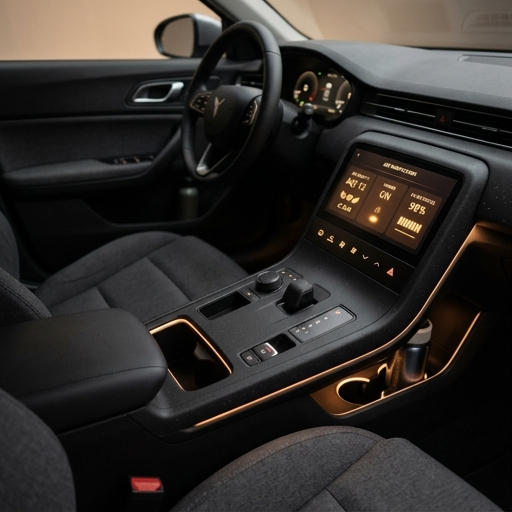
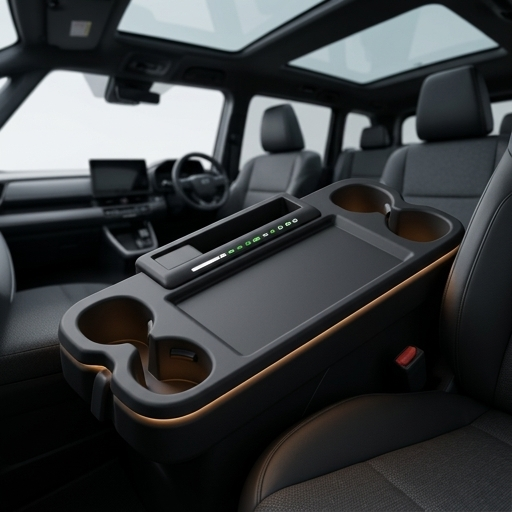
Use source news images for Gemini idea renders

diff --git a/generate_idea_images_gemini.py b/generate_idea_images_gemini.py
@@ -1,14 +1,17 @@
 # -*- coding: utf-8 -*-
 import argparse
 import base64
+import io
 import os
 import re
 from pathlib import Path
 
 import requests
+from PIL import Image, ImageOps
 
 ROOT = Path(__file__).resolve().parent
 INSIGHTS_PATH = ROOT / "insights_data.js"
+NEWS_PATH = ROOT / "news_data.js"
 IMAGES_DIR = ROOT / "images"
 IMAGES_DIR.mkdir(exist_ok=True)
 
@@ -16,6 +19,45 @@ DEFAULT_MODEL = "gemini-3.1-flash-image-preview"
 DEFAULT_ASPECT_RATIO = "1:1"
 DEFAULT_IMAGE_SIZE = "512px"  # 0.5K tier
 DEFAULT_API_VERSION = "v1beta"
+DEFAULT_PROXY = "http://202.15.64.202:8080"
+
+
+def _windows_proxy_server() -> str:
+    if os.name != "nt":
+        return ""
+    try:
+        import winreg
+
+        path = r"Software\Microsoft\Windows\CurrentVersion\Internet Settings"
+        with winreg.OpenKey(winreg.HKEY_CURRENT_USER, path) as key:
+            enabled = int(winreg.QueryValueEx(key, "ProxyEnable")[0])
+            value = str(winreg.QueryValueEx(key, "ProxyServer")[0]).strip()
+        if not enabled or not value:
+            return ""
+        if ";" in value or "=" in value:
+            entries = {}
+            for part in value.split(";"):
+                if "=" in part:
+                    name, server = part.split("=", 1)
+                    entries[name.strip().lower()] = server.strip()
+            value = entries.get("https") or entries.get("http") or ""
+        if value and "://" not in value:
+            value = f"http://{value}"
+        return value
+    except Exception:
+        return ""
+
+
+def configure_external_proxy() -> str:
+    proxy = (
+        os.environ.get("HTTPS_PROXY")
+        or os.environ.get("HTTP_PROXY")
+        or _windows_proxy_server()
+        or DEFAULT_PROXY
+    )
+    for name in ("HTTP_PROXY", "HTTPS_PROXY", "http_proxy", "https_proxy"):
+        os.environ.setdefault(name, proxy)
+    return proxy
 
 
 def extract_latest_block(text: str) -> str:
@@ -52,7 +94,7 @@ def extract_latest_block(text: str) -> str:
 def extract_ideas(block: str):
     ideas = []
     pattern = re.compile(
-        r"\{\s*id:\s*(\d+)\s*,\s*img:\s*\"([^\"]*)\"\s*,\s*title:\s*\"([^\"]*)\"\s*,\s*desc:\s*\"([^\"]*)\"(?:\s*,\s*imagePrompt:\s*\"([^\"]*)\")?(?:\s*,\s*sourceNewsIds:\s*\[[^\]]*\])?\s*\}",
+        r"\{\s*id:\s*(\d+)\s*,\s*img:\s*\"([^\"]*)\"\s*,\s*title:\s*\"([^\"]*)\"\s*,\s*desc:\s*\"([^\"]*)\"(?:\s*,\s*imagePrompt:\s*\"([^\"]*)\")?(?:\s*,\s*sourceNewsIds:\s*\[([^\]]*)\])?\s*\}",
         re.DOTALL,
     )
     for m in pattern.finditer(block):
@@ -63,6 +105,7 @@ def extract_ideas(block: str):
                 "title": m.group(3),
                 "desc": m.group(4),
                 "imagePrompt": m.group(5) or "",
+                "sourceNewsIds": re.findall(r"[a-z]{2,5}\d+", m.group(6) or "", flags=re.IGNORECASE),
             }
         )
     return ideas
@@ -73,25 +116,114 @@ def extract_date(block: str) -> str:
     return m.group(1) if m else ""
 
 
-def build_prompt(title: str, desc: str, image_prompt: str = "", api_key: str = "", model: str = "", idea_id: int = 0) -> str:
-    """画像生成プロンプトを返す。
-    imagePrompt が設定済みならそれを使用。
-    それ以外は日本語タイトル+説明をそのまま渡す（Geminiは日本語直接対応）。
-    """
-    if image_prompt:
-        return image_prompt
+def extract_news_reference_map(text: str) -> dict[str, dict]:
+    """Extract the fields needed to download an idea's source-news images."""
+    result = {}
+    object_pattern = re.compile(
+        r'\{\s*id:\s*"(?P<id>[a-z]{2,5}\d+)"(?P<body>.*?)\n\s*\}',
+        re.DOTALL | re.IGNORECASE,
+    )
+    for match in object_pattern.finditer(text):
+        body = match.group("body")
+        item = {"id": match.group("id").lower()}
+        for field in ("title", "url", "img"):
+            value = re.search(rf'{field}:\s*"((?:\\.|[^"\\])*)"', body, flags=re.DOTALL)
+            item[field] = (value.group(1) if value else "").replace("\\/", "/").replace('\\"', '"')
+        result[item["id"]] = item
+    return result
+
+
+def _prepare_inline_image(raw: bytes) -> tuple[str, bytes]:
+    """Normalize a downloaded image so Gemini receives a compact supported file."""
+    with Image.open(io.BytesIO(raw)) as source:
+        image = ImageOps.exif_transpose(source)
+        image.thumbnail((1280, 1280), Image.Resampling.LANCZOS)
+        has_alpha = image.mode in ("RGBA", "LA") or "transparency" in image.info
+        output = io.BytesIO()
+        if has_alpha:
+            image.convert("RGBA").save(output, format="PNG", optimize=True)
+            return "image/png", output.getvalue()
+        image.convert("RGB").save(output, format="JPEG", quality=86, optimize=True)
+        return "image/jpeg", output.getvalue()
+
+
+def download_reference_image(item: dict, timeout: int = 60) -> tuple[str, bytes]:
+    image_url = (item.get("img") or "").strip()
+    if not image_url:
+        raise ValueError("news item has no image URL")
+    headers = {
+        "User-Agent": (
+            "Mozilla/5.0 (Windows NT 10.0; Win64; x64) "
+            "AppleWebKit/537.36 (KHTML, like Gecko) Chrome/126.0 Safari/537.36"
+        ),
+        "Accept": "image/avif,image/webp,image/apng,image/svg+xml,image/*,*/*;q=0.8",
+    }
+    if item.get("url"):
+        headers["Referer"] = item["url"]
+    response = requests.get(image_url, headers=headers, timeout=timeout)
+    response.raise_for_status()
+    if not response.content:
+        raise ValueError("empty image response")
+    return _prepare_inline_image(response.content)
+
+
+def build_reference_parts(idea: dict, news_map: dict[str, dict], max_images: int = 2) -> list[dict]:
+    parts = []
+    seen_urls = set()
+    for news_id in idea.get("sourceNewsIds", []):
+        if len(parts) // 2 >= max_images:
+            break
+        item = news_map.get(str(news_id).lower())
+        if not item:
+            print(f"[REF_SKIP] {idea['id']}: {news_id} not found in news_data.js")
+            continue
+        image_url = (item.get("img") or "").strip()
+        if not image_url or image_url in seen_urls:
+            continue
+        try:
+            mime_type, image_bytes = download_reference_image(item)
+        except Exception as exc:
+            print(f"[REF_FAIL] {idea['id']}: {news_id}: {exc}")
+            continue
+        seen_urls.add(image_url)
+        parts.append({"text": f"Reference news image ({news_id})."})
+        parts.append(
+            {
+                "inline_data": {
+                    "mime_type": mime_type,
+                    "data": base64.b64encode(image_bytes).decode("ascii"),
+                }
+            }
+        )
+        print(f"[REF] {idea['id']}: {news_id} ({len(image_bytes) // 1024} KB)")
+    return parts
+
+
+def build_prompt(title: str, desc: str, image_prompt: str = "", has_references: bool = False) -> str:
+    """Build an image brief and explain how any attached news photos should be used."""
     import re as _re
     clean_title = _re.sub(r'\*+', '', title).strip()
     clean_desc = _re.sub(r'\*+', '', desc).strip()
     clean_desc = _re.sub(r'\[[a-z]{2,5}\d+\]', '', clean_desc)
     clean_desc = _re.sub(r'\s+', ' ', clean_desc)[:700]
+    concept_visual = image_prompt.strip() if image_prompt else clean_desc
+    reference_instruction = (
+        "The following image or images are source-news references. Use only their relevant physical design, "
+        "material, packaging, and cabin-context cues. Do not copy their composition, branding, logos, text, "
+        "people, or the complete vehicle. Transform the cues into the distinct concept described below."
+        if has_references
+        else ""
+    )
     return (
         "Create one square photorealistic concept render of an automotive interior product. "
         "Do not include any text, labels, logos, captions, UI words, watermarks, or people. "
-        "Show the physical object clearly in a modern vehicle cabin with premium materials, "
-        "realistic lighting, detailed surfaces, and production-ready industrial design.\n\n"
+        "Do not design a seat, seat cushion, seat frame, seat cover, headrest, or seating product. "
+        "Show the physical product clearly in a modern passenger-vehicle cabin with premium materials, "
+        "realistic lighting, detailed surfaces, and production-feasible industrial design.\n"
+        f"{reference_instruction}\n\n"
         f"Concept name: {clean_title}\n"
-        f"Design brief: {clean_desc}"
+        f"Design brief: {clean_desc}\n"
+        f"Requested visual direction: {concept_visual}"
     )
 
 
@@ -124,7 +256,10 @@ def main():
     ap.add_argument("--aspect-ratio", default=os.environ.get("GEMINI_IMAGE_ASPECT_RATIO", DEFAULT_ASPECT_RATIO))
     ap.add_argument("--image-size", default=os.environ.get("GEMINI_IMAGE_SIZE", DEFAULT_IMAGE_SIZE))
     ap.add_argument("--api-version", default=os.environ.get("GEMINI_API_VERSION", DEFAULT_API_VERSION))
+    ap.add_argument("--no-reference-images", action="store_true", help="Do not attach source-news images")
+    ap.add_argument("--max-reference-images", type=int, default=2)
     args = ap.parse_args()
+    configure_external_proxy()
 
     api_key = os.environ.get("GEMINI_API_KEY")
     if not api_key:
@@ -143,6 +278,10 @@ def main():
     if not ideas:
         print("No ideas found in latest block.")
         return
+
+    news_map = {}
+    if not args.no_reference_images:
+        news_map = extract_news_reference_map(NEWS_PATH.read_text(encoding="utf-8"))
 
     updated = text
     count = 0
@@ -174,9 +313,20 @@ def main():
             updated = update_image_path(updated, idea["id"], f"images/{dest_path.name}")
             continue
 
-        prompt_text = build_prompt(idea["title"], idea["desc"], idea.get("imagePrompt", ""))
+        reference_parts = build_reference_parts(
+            idea,
+            news_map,
+            max_images=max(0, args.max_reference_images),
+        ) if news_map else []
+        prompt_text = build_prompt(
+            idea["title"],
+            idea["desc"],
+            idea.get("imagePrompt", ""),
+            has_references=bool(reference_parts),
+        )
+        request_parts = [{"text": prompt_text}, *reference_parts]
         payload = {
-            "contents": [{"parts": [{"text": prompt_text}]}],
+            "contents": [{"parts": request_parts}],
             "generationConfig": {
                 "responseModalities": ["IMAGE"],
                 "imageConfig": {

diff --git a/auto_update_daily_news.py b/auto_update_daily_news.py
@@ -485,6 +485,27 @@ def _clean_idea_field(text: str, max_len: int = 400) -> str:
     return text[:max_len]
 
 
+def _is_out_of_scope_seat_product(text: str) -> bool:
+    """Return True when an idea is primarily a seat product, which is out of scope."""
+    normalized = re.sub(r"\s+", " ", str(text or "")).lower()
+    # Seat belts are safety products rather than seating products, so do not
+    # reject an otherwise valid idea only because that term appears.
+    normalized = normalized.replace("シートベルト", "").replace("seat belt", "").replace("seatbelt", "")
+    if any(
+        term in normalized
+        for term in [
+            "シート",
+            "座席",
+            "座面",
+            "背もたれ",
+            "ヘッドレスト",
+            "ランバーサポート",
+        ]
+    ):
+        return True
+    return bool(re.search(r"\b(?:seat|seats|seating|headrest|headrests|backrest|backrests)\b", normalized))
+
+
 def dedupe_ideas(raw_ideas: list, history_ideas: list, limit: int = 2):
     picked = []
     picked_texts = []
@@ -506,6 +527,8 @@ def dedupe_ideas(raw_ideas: list, history_ideas: list, limit: int = 2):
         if not title or not desc:
             continue
         cand = f"{title} {desc}"
+        if _is_out_of_scope_seat_product(cand):
+            continue
         duplicate = False
         for ht in history_texts:
             if _similarity(cand, ht) >= 0.58:
@@ -992,7 +1015,7 @@ def select_idea_anchor_groups(items: list, need_count: int = 2) -> list[list[dic
         interior_score = float(interior_score) if interior_score is not None else 0.0
         blob = f"{it.get('title', '')} {it.get('desc', '')} {tags}".lower()
         keyword_bonus = 0
-        for kw in ["シート", "ディスプレイ", "HMI", "コックピット", "コンソール", "ステア", "イルミ", "安全", "新素材", "音響"]:
+        for kw in ["ディスプレイ", "HMI", "HUD", "コックピット", "コンソール", "ステア", "イルミ", "安全", "新素材", "音響", "ドアトリム", "インパネ"]:
             if kw.lower() in blob:
                 keyword_bonus += 5
         image_bonus = 8 if it.get("imageInterior") is True else 0
@@ -1008,6 +1031,7 @@ def select_idea_anchor_groups(items: list, need_count: int = 2) -> list[list[dic
         and it.get("title")
         and it.get("desc")
         and not _non_passenger_vehicle_kind(it)
+        and not _is_out_of_scope_seat_product(f"{it.get('title', '')} {it.get('desc', '')}")
         and (it.get("imageInterior") is True or (it.get("interiorScore") or 0) >= 65)
     ]
     if not candidates:
@@ -1015,6 +1039,7 @@ def select_idea_anchor_groups(items: list, need_count: int = 2) -> list[list[dic
             it for it in items
             if it.get("newsId") and it.get("title") and it.get("desc")
             and not _non_passenger_vehicle_kind(it)
+            and not _is_out_of_scope_seat_product(f"{it.get('title', '')} {it.get('desc', '')}")
         ]
     candidates.sort(key=_score, reverse=True)
     if not candidates:
@@ -1056,7 +1081,11 @@ def make_country_prompt(
     angles = load_idea_angles()
     angle = random.choice(angles) if angles else ""
     angle_instruction = f"    - 【今回の発想切り口】1件目は「{angle}」の視点で発想すること（ただしニュース内容と関連させること）\n" if angle else ""
-    tg_products = load_tg_products()
+    tg_products = [
+        product
+        for product in load_tg_products()
+        if not _is_out_of_scope_seat_product(f"{product.get('name', '')} {product.get('desc', '')}")
+    ]
     tg_product = random.choice(tg_products) if tg_products else None
     tg_constraint = ""
     if tg_product:
@@ -1088,8 +1117,11 @@ def make_country_prompt(
 {angle_instruction}{tg_constraint}    - 過去アイデアの言い換え・焼き直しは禁止
     - 各ideasは、対応する【アイデア用アンカーニュース】だけを根拠にする
     - 1つのideasが参照してよいニュースは最大2件まで。アンカー外のニュースや市場全体の一般論を根拠にしない
+    - アンカーニュースの主題となる部品・材料・操作上の課題を企画の中核にする。無関係な技術を足して別ジャンルの製品へ飛躍しない
     - 各ideasのdescには、アンカーニュース固有の車名・部品名・技術名・数値のいずれかを必ず1つ以上入れる
     - sourceNewsIdsには、対応するanchor IDsのみを入れる
+    - シート、座席、座面、背もたれ、ヘッドレストなどの座席製品は企画対象外。ニュースに含まれていてもideasでは提案しない
+    - 企画対象はインパネ、センターコンソール、ドアトリム、ステアリング/HMI、照明、安全表示、内装加飾・材料、音響・静粛、ウェザーストリップ等を優先する
     - うれしさを必ず明記
     - titleは日本語を基本に20文字以内の短い名称のみ（英語のみは禁止、説明・括弧書き・句点を含めない）
     - descは120〜180文字程度。長い背景説明ではなく、何を作るか・誰がうれしいかを端的に書く

diff --git a/.agent/prompts/insights_generation_prompt.md b/.agent/prompts/insights_generation_prompt.md
@@ -38,27 +38,26 @@
 ## 企画アイデア例（Ideas）生成プロンプト
 
 ### 目的
-考察を踏まえ、具体的な内装製品の企画アイデアを提案する。各国・地域ごとに2件程度。
+考察と同じニュース群から、割り当てられたアンカーニュースに直接結び付く具体的な内装製品企画を提案する。各国・地域ごとに2件程度。
 
 ### プロンプトテンプレート
 
 ```
-以下の考察を踏まえ、{国名}市場向けの内装製品企画アイデアを2件提案してください。
-
-【考察】
-{考察テキスト}
+以下の対象ニュースから、{国名}市場向けの内装製品企画アイデアを2件提案してください。
 
 【対象ニュース】
 {ニュース一覧（タイトル、概要）}
 
 【生成ルール】
 1. 各アイデアには以下を含める：
-   - タイトル（20〜40文字）：製品コンセプトを端的に表現
-   - 説明（200〜300文字）：製品の特徴、ターゲット、差別化ポイント、うれしさを含める
+   - タイトル（20文字以内）：製品コンセプトを端的に表現
+   - 説明（120〜180文字）：製品の特徴、ターゲット、差別化ポイント、うれしさを含める
 2. 実現可能性を考慮しつつ、革新性も追求する
-3. 関連するニュースのトレンドを反映させる
-4. 日本語で出力する
-5. 画像生成用のプロンプトも併記する（英語、50〜100 words）
+3. アンカーニュース固有の部品・材料・技術・課題を企画の中核にし、別ジャンルへ飛躍しない
+4. シート、座席、座面、背もたれ、ヘッドレストなどの座席製品は企画対象外とする
+5. インパネ、コンソール、ドアトリム、HMI、照明、安全表示、内装材料、音響・静粛などを優先する
+6. 日本語で出力する
+7. 画像生成用のプロンプトも併記する（英語、50〜100 words）
 
 【出力形式（JSON）】
 {
@@ -77,7 +76,7 @@
 ## 画像生成プロンプト（Image Prompt）テンプレート
 
 ### 目的
-企画アイデアのコンセプト画像をAI（generate_image）で生成する。
+企画アイデアのコンセプト画像をGemini APIで生成する。参照ニュースに画像URLがある場合は、その画像もデザイン文脈の参考として添付する。
 
 ### プロンプト構造
 
@@ -102,7 +101,7 @@ cinematic lighting, high detail, 4K quality
 1. **ニュース追加時**: `news_data.js` に新しいニュースを追加した日付に対応
 2. **考察生成**: 上記の考察プロンプトを使用し、各国のニュースを分析
 3. **アイデア生成**: 考察を踏まえてアイデアプロンプトを実行
-4. **画像生成**: 各アイデアのimagePromptを使用してgenerate_imageツールで画像作成
+4. **画像生成**: 各アイデアのimagePromptと参照ニュース画像をGemini APIへ送り、画像を作成
 5. **データ反映**: `insights_data.js` に考察とアイデアを追加
 
 ---
